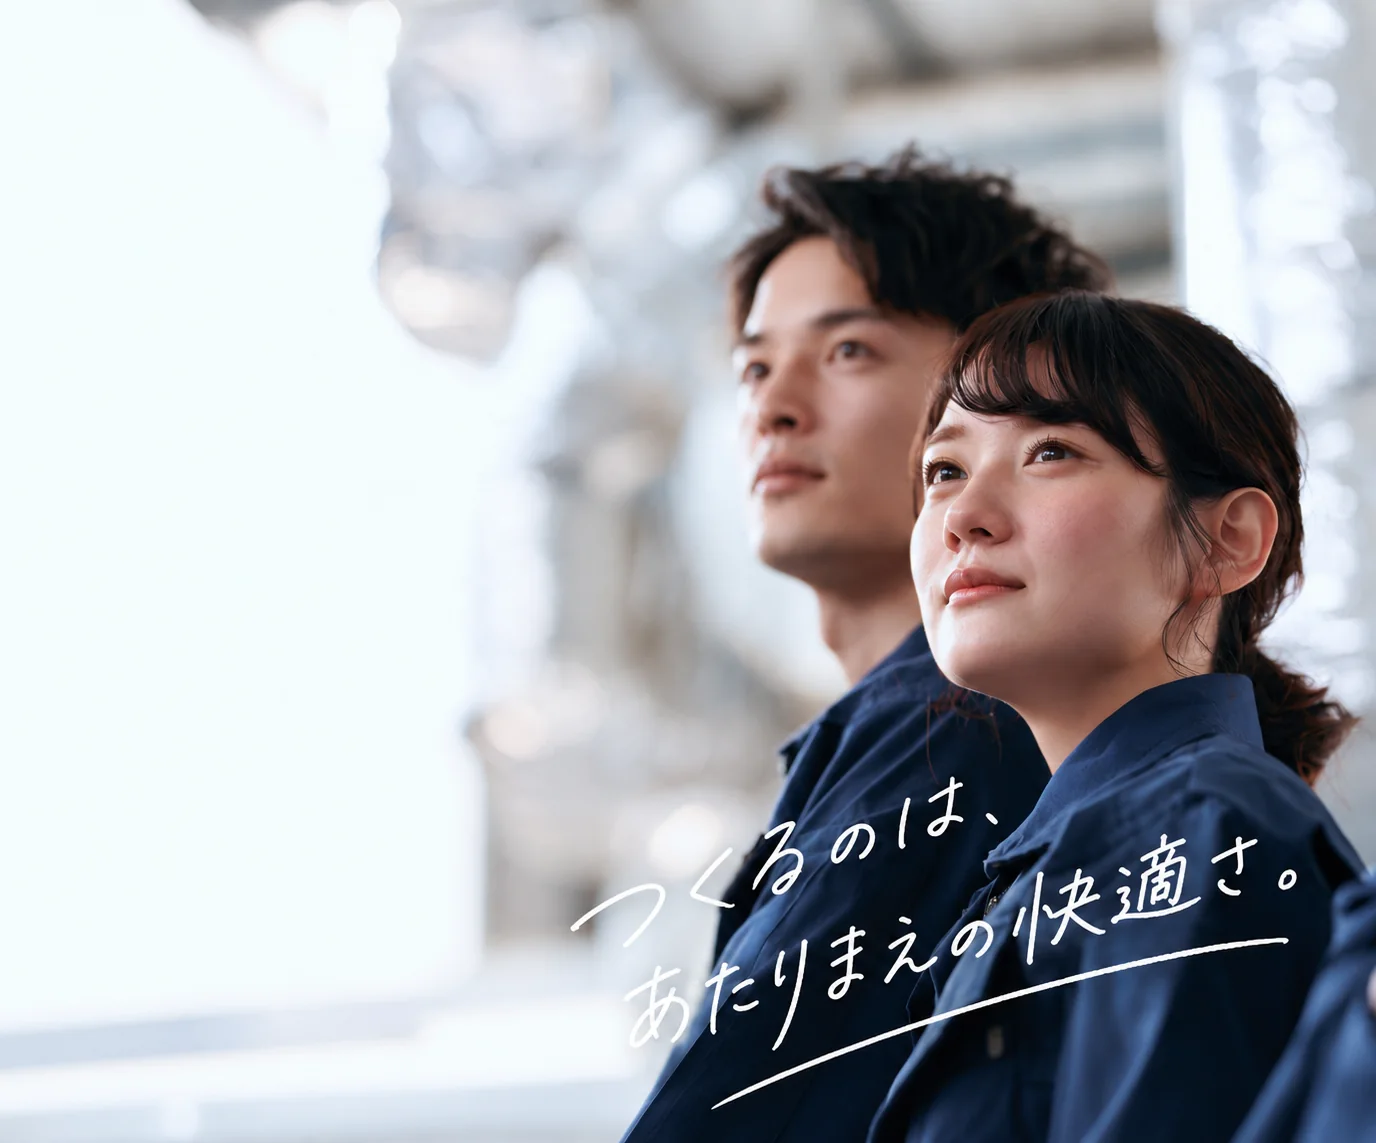
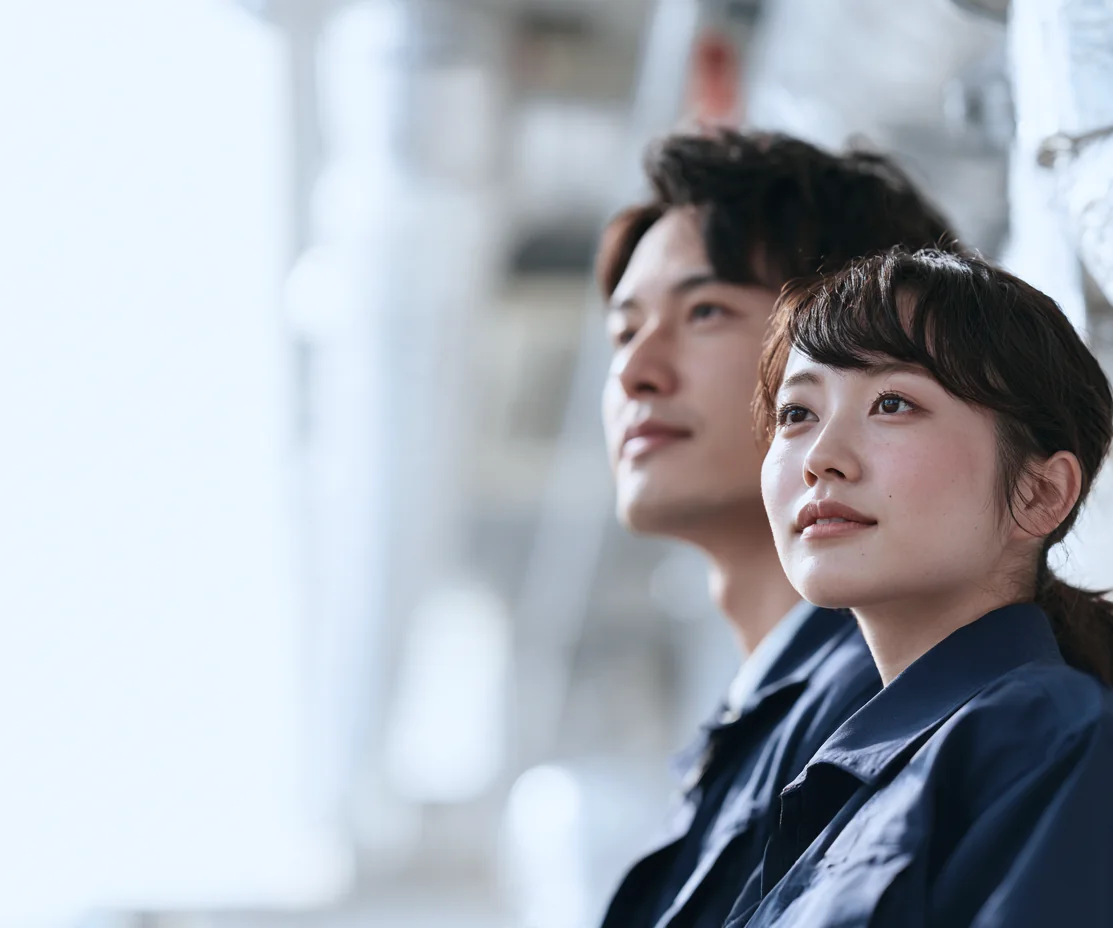
ヒーローを見出しと顔だけに絞る
- 写真を手書き文字なしのものへ差し替え。スマホでは手書きが
  ボタンに隠れて読めていなかったため、入っている意味がなかった。
- 強み3項目（確かな技術／高い対応力／地域密着）を削除。
  主役は「東海3県の保温・断熱工事は藤井冷熱へ。」の一文に絞る。
- 白い膜が顔にかかっていたので、左54%で消えるようにした。
  代わりに下側を強くして、ボタンは白地に載せる。
- 見出しをスマホ24px、PCは最大66pxへ拡大。
- リード帯に見出しと藍の縦線を足し、社名を太字にした。
  文章を置いただけに見えていたため。

diff --git a/index.html b/index.html
@@ -13,7 +13,7 @@
 <script src="js/nav.js?v=53702c8f" defer></script>
 <link rel="icon" href="img/favicon.png" type="image/png">
 <link rel="stylesheet" href="css/reset.css?v=e600d7dc">
-<link rel="stylesheet" href="css/style.css?v=bd74b9c1">
+<link rel="stylesheet" href="css/style.css?v=8a3de940">
 
 	<link rel="canonical" href="https://fujiiren1996.github.io/fujii-reinetsu/">
 	<meta property="og:type" content="website">
@@ -108,27 +108,13 @@
 
 <section class="p-hero">
 	<div class="p-hero__visual">
-		<img class="p-hero__photo" src="img/photos/hero-people.webp" width="1376" height="1143" alt="つくるのは、あたりまえの快適さ。／ 機械室で上を見る作業服姿の2人（イメージ）" fetchpriority="high" decoding="async">
+		<img class="p-hero__photo" src="img/photos/hero-people.webp" width="1113" height="928" alt="機械室で上を見る作業服姿の2人（イメージ）" fetchpriority="high" decoding="async">
 	</div>
 	<div class="p-hero__inner">
 		<div class="p-hero__body" data-reveal="load">
 			<p class="p-hero__eyebrow js-fadein" style="--d:60ms">Insulation ／ Cladding ／ Sheet metal</p>
 			<h1 class="p-hero__title js-fadein" style="--d:140ms"><span>東海3県の</span><br><span>保温・断熱工事は</span><br><span class="p-hero__title-accent">藤井冷熱へ。</span></h1>
 			<p class="p-hero__sub js-fadein" style="--d:300ms">約50年続く、保温板金の会社です。</p>
-			<ul class="p-hero__points js-fadein" style="--d:400ms">
-				<li class="p-hero__point">
-					<svg viewBox="0 0 24 24" fill="none" stroke="currentColor" stroke-width="1.3" stroke-linecap="round" stroke-linejoin="round" aria-hidden="true"><path d="M12 3 4.5 6v6c0 4.5 3.2 7.6 7.5 9 4.3-1.4 7.5-4.5 7.5-9V6L12 3Z"/><path d="m8.8 12.1 2.2 2.2 4.2-4.4"/></svg>
-					<span><span class="p-hero__point-name">確かな技術</span><span class="p-hero__point-desc">三代続く職人の技</span></span>
-				</li>
-				<li class="p-hero__point">
-					<svg viewBox="0 0 24 24" fill="none" stroke="currentColor" stroke-width="1.3" stroke-linecap="round" stroke-linejoin="round" aria-hidden="true"><path d="M4.6 15.2a7.4 7.4 0 0 1 14.8 0"/><path d="M12 7.8V4.4"/><path d="M9.4 4.4h5.2"/><path d="M3.2 15.2h17.6"/><path d="M4.2 17.9h15.6"/></svg>
-					<span><span class="p-hero__point-name">高い対応力</span><span class="p-hero__point-desc">現場に合わせた最適な施工</span></span>
-				</li>
-				<li class="p-hero__point">
-					<svg viewBox="0 0 24 24" fill="none" stroke="currentColor" stroke-width="1.3" stroke-linecap="round" stroke-linejoin="round" aria-hidden="true"><path d="M2.4 10.6 6 7.6l3.4 2.9 2.6-.6 2.6.6L18 7.6l3.6 3"/><path d="m9.4 10.5 2.6 2.4 2.6-2.4"/><path d="M6 7.6v7.9l6 3.4 6-3.4V7.6"/></svg>
-					<span><span class="p-hero__point-name">地域密着</span><span class="p-hero__point-desc">東海3県で信頼の実績</span></span>
-				</li>
-			</ul>
 			<div class="p-hero__actions js-fadein" style="--d:520ms">
 				<a class="c-btn c-btn--blue c-btn--hero" href="#contact"><svg class="c-btn__ic"><use href="#i-msg"/></svg><span>お問い合わせ</span><svg class="c-btn__ic c-btn__ic--go"><use href="#i-arrow"/></svg></a>
 				<a class="c-btn c-btn--oblue c-btn--hero" href="recruit.html"><svg class="c-btn__ic"><use href="#i-user"/></svg><span>採用情報を見る</span><svg class="c-btn__ic c-btn__ic--go"><use href="#i-arrow"/></svg></a>
@@ -141,7 +127,8 @@
 
 <section class="p-intro">
 	<div class="p-intro__inner">
-		<p class="p-intro__lead js-fadein">藤井冷熱は、名古屋市中川区で創業から約50年、親子三代で続く保温・断熱・板金工事の会社です。愛知・岐阜・三重で、配管・ダクトの保温から、冷媒管や屋外配管のラッキング、板金仕上げまでを一貫して請け負います。曲がり、分岐、バルブまわり。納まりの難しい箇所ほど、技術の差が出る仕事です。</p>
+		<p class="c-eyebrow c-eyebrow--client js-fadein">About us <i>／</i> 藤井冷熱について</p>
+		<p class="p-intro__lead js-fadein" style="--d:120ms"><b>藤井冷熱</b>は、名古屋市中川区で創業から約50年、親子三代で続く保温・断熱・板金工事の会社です。愛知・岐阜・三重で、配管・ダクトの保温から、冷媒管や屋外配管のラッキング、板金仕上げまでを一貫して請け負います。曲がり、分岐、バルブまわり。納まりの難しい箇所ほど、技術の差が出る仕事です。</p>
 	</div>
 </section>
 

diff --git a/css/style.css b/css/style.css
@@ -7025,7 +7025,7 @@ h2.p-ceo__name { margin-top: 4px; }
 .p-hero__title {
 	font-family: "Shippori Mincho B1", "Zen Kaku Gothic New", serif;
 	font-weight: 800;
-	font-size: clamp(29px, 4.15vw, 62px);
+	font-size: clamp(29px, 4.5vw, 66px);
 	line-height: 1.26;
 	letter-spacing: .005em;
 }
@@ -7164,11 +7164,31 @@ h2.p-ceo__name { margin-top: 4px; }
 }
 
 .p-intro__lead {
-	max-width: 46em;
+	position: relative;
+	max-width: 44em;
+	margin-top: 16px;
+	padding-left: 22px;
 	font-size: clamp(14px, 1.05vw, 16px);
-	line-height: 2;
+	line-height: 2.05;
 	color: var(--ink-2);
 	text-wrap: pretty;
+}
+
+/* 書き出しに藍の縦線を引き、ただ置いただけに見えないようにする */
+.p-intro__lead::before {
+	content: "";
+	position: absolute;
+	left: 0;
+	top: .35em;
+	bottom: .35em;
+	width: 2px;
+	background: linear-gradient(180deg, var(--blue), var(--blue-m));
+}
+
+/* 社名だけ濃く。目が最初にここへ落ちる */
+.p-intro__lead b {
+	font-weight: 700;
+	color: var(--ink);
 }
 
 /* --------------------------------------------------------------------------
@@ -7186,16 +7206,16 @@ h2.p-ceo__name { margin-top: 4px; }
 		left: 0;
 		right: 0;
 		width: 100%;
-		height: 92vw;
-		min-height: 290px;
-		max-height: 420px;
+		height: 104vw;
+		min-height: 320px;
+		max-height: 460px;
 	}
 
 	.p-hero__photo {
 		width: 100%;
 		height: 100%;
 		object-fit: cover;
-		object-position: 74% 34%;
+		object-position: 82% 34%;
 		-webkit-mask-image: none;
 		mask-image: none;
 	}
@@ -7206,8 +7226,8 @@ h2.p-ceo__name { margin-top: 4px; }
 		position: absolute;
 		inset: 0;
 		background:
-			linear-gradient(to top, #fff 0%, rgba(255, 255, 255, .62) 22%, rgba(255, 255, 255, 0) 54%),
-			linear-gradient(101deg, rgba(255, 255, 255, .94) 0%, rgba(255, 255, 255, .86) 30%, rgba(255, 255, 255, .38) 58%, rgba(255, 255, 255, 0) 80%);
+			linear-gradient(to top, #fff 0%, #fff 26%, rgba(255, 255, 255, .80) 36%, rgba(255, 255, 255, 0) 55%),
+			linear-gradient(100deg, rgba(255, 255, 255, .97) 0%, rgba(255, 255, 255, .93) 24%, rgba(255, 255, 255, .58) 40%, rgba(255, 255, 255, 0) 54%);
 	}
 
 	.p-hero__inner {
@@ -7226,22 +7246,22 @@ h2.p-ceo__name { margin-top: 4px; }
 	/* 見出しは写真の明るい側に収める。
 	   小見出しは1行で成立する幅があるので、ここでは絞らない
 	   （絞ると nowrap のまま横にはみ出す）。 */
-	.p-hero__title,
-	.p-hero__sub { max-width: 70%; }
+	.p-hero__title { max-width: 56%; }
+	.p-hero__sub { max-width: 80%; }
 
 	.p-hero__eyebrow {
 		font-size: 10px;
 		letter-spacing: .1em;
 	}
 
-	.p-hero__title { font-size: 21px; line-height: 1.5; letter-spacing: 0; }
+	.p-hero__title { font-size: 24px; line-height: 1.45; letter-spacing: -.01em; }
 	.p-hero__title-accent { font-size: 1.14em; }
 
 
 	.p-hero__sub {
-		font-size: 13px;
+		font-size: 12px;
 		gap: 8px;
-		white-space: normal;
+		white-space: nowrap;
 	}
 
 	.p-hero__points {
@@ -7261,5 +7281,5 @@ h2.p-ceo__name { margin-top: 4px; }
 	.p-hero__scroll { display: none; }
 
 	.p-intro__inner { padding: 28px 20px 30px; }
-	.p-intro__lead { font-size: 14px; line-height: 1.9; }
+	.p-intro__lead { font-size: 14px; line-height: 1.95; padding-left: 16px; margin-top: 12px; }
 }

diff --git a/recruit-about.html b/recruit-about.html
@@ -13,7 +13,7 @@
 <script>document.documentElement.classList.add('js');</script>
 <script src="js/nav.js?v=53702c8f" defer></script>
 <link rel="stylesheet" href="css/reset.css?v=e600d7dc">
-<link rel="stylesheet" href="css/style.css?v=bd74b9c1">
+<link rel="stylesheet" href="css/style.css?v=8a3de940">
 
 	<link rel="canonical" href="https://fujiiren1996.github.io/fujii-reinetsu/recruit-about.html">
 	<meta property="og:type" content="article">

diff --git a/recruit-work.html b/recruit-work.html
@@ -13,7 +13,7 @@
 <script>document.documentElement.classList.add('js');</script>
 <script src="js/nav.js?v=53702c8f" defer></script>
 <link rel="stylesheet" href="css/reset.css?v=e600d7dc">
-<link rel="stylesheet" href="css/style.css?v=bd74b9c1">
+<link rel="stylesheet" href="css/style.css?v=8a3de940">
 
 	<link rel="canonical" href="https://fujiiren1996.github.io/fujii-reinetsu/recruit-work.html">
 	<meta property="og:type" content="article">

diff --git a/recruit-faq.html b/recruit-faq.html
@@ -13,7 +13,7 @@
 <script>document.documentElement.classList.add('js');</script>
 <script src="js/nav.js?v=53702c8f" defer></script>
 <link rel="stylesheet" href="css/reset.css?v=e600d7dc">
-<link rel="stylesheet" href="css/style.css?v=bd74b9c1">
+<link rel="stylesheet" href="css/style.css?v=8a3de940">
 
 	<link rel="canonical" href="https://fujiiren1996.github.io/fujii-reinetsu/recruit-faq.html">
 	<meta property="og:type" content="article">

diff --git a/recruit-job.html b/recruit-job.html
@@ -13,7 +13,7 @@
 <script>document.documentElement.classList.add('js');</script>
 <script src="js/nav.js?v=53702c8f" defer></script>
 <link rel="stylesheet" href="css/reset.css?v=e600d7dc">
-<link rel="stylesheet" href="css/style.css?v=bd74b9c1">
+<link rel="stylesheet" href="css/style.css?v=8a3de940">
 
 	<link rel="canonical" href="https://fujiiren1996.github.io/fujii-reinetsu/recruit-job.html">
 	<meta property="og:type" content="article">

diff --git a/recruit.html b/recruit.html
@@ -13,7 +13,7 @@
 <script>document.documentElement.classList.add('js');</script>
 <script src="js/nav.js?v=53702c8f" defer></script>
 <link rel="stylesheet" href="css/reset.css?v=e600d7dc">
-<link rel="stylesheet" href="css/style.css?v=bd74b9c1">
+<link rel="stylesheet" href="css/style.css?v=8a3de940">
 
 	<link rel="canonical" href="https://fujiiren1996.github.io/fujii-reinetsu/recruit.html">
 	<meta property="og:type" content="article">
